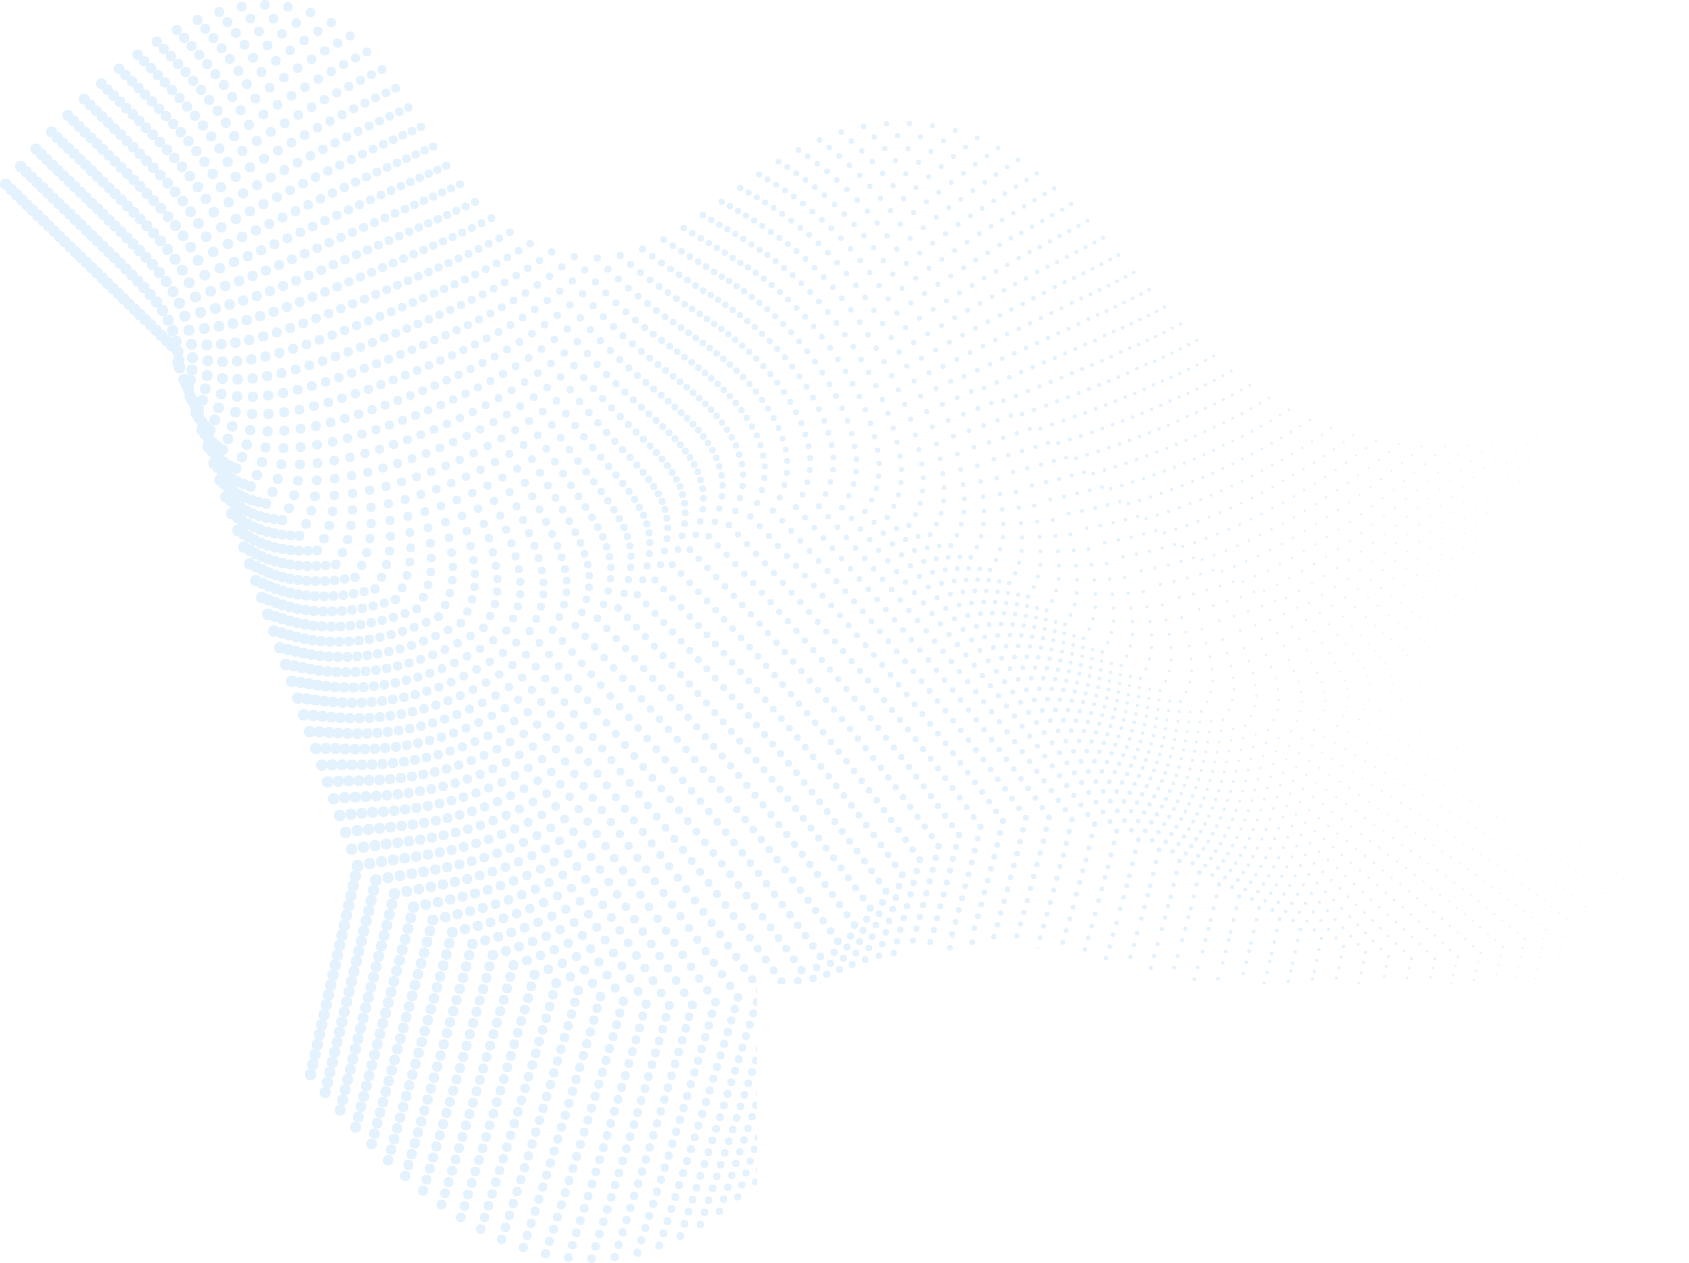
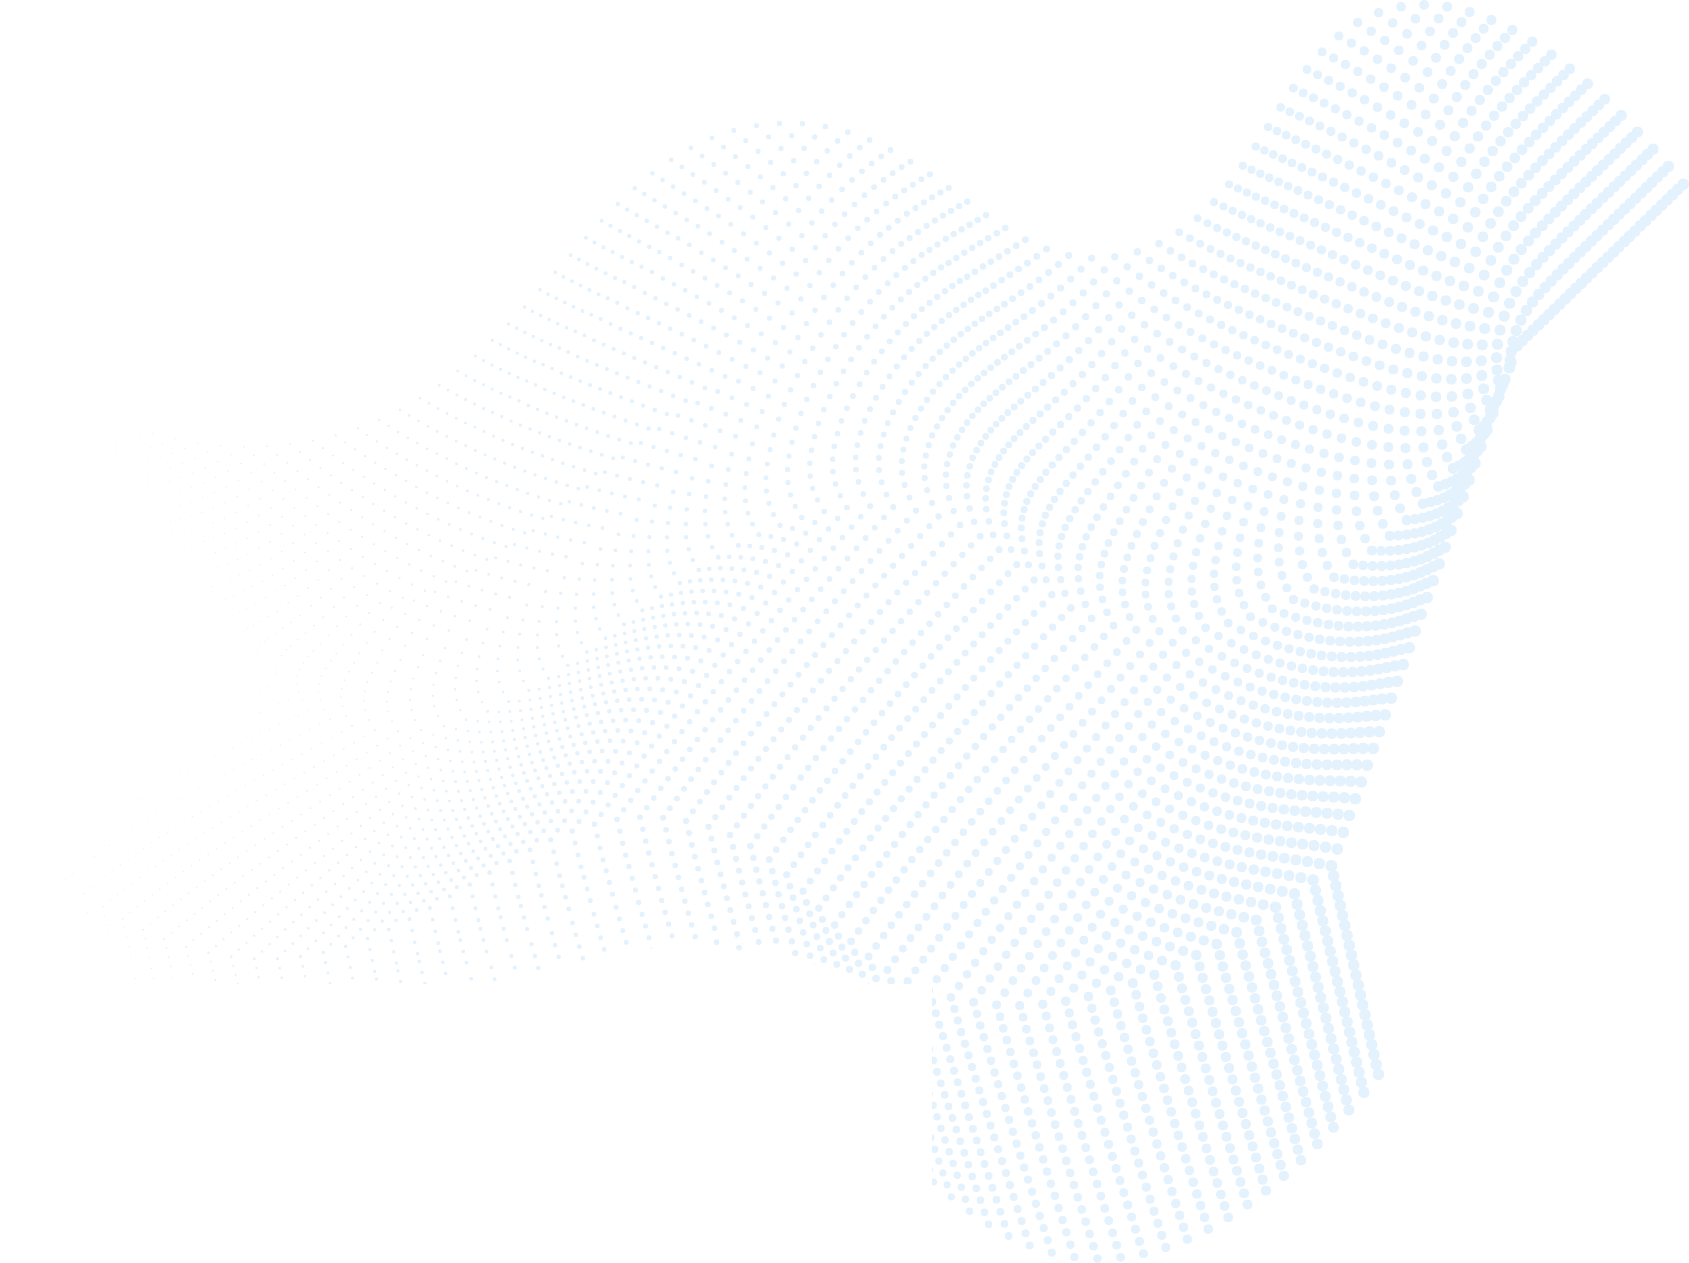
agregando loading lazy a las imagenes debajo del Hero

Changed region(s): [[0.0, 0.0, 1.0, 1.0]]

diff --git a/src/Frontend/layouts/Footer/Footer.tsx b/src/Frontend/layouts/Footer/Footer.tsx
@@ -22,6 +22,7 @@ function Footer() {
               alt="Logo de LockKey, un candado con una serpiente."
               width={200}
               height={200}
+              loading="lazy"
             />
             <h2 className="font-normal text-3xl">
               Lock<strong>Key</strong>
@@ -106,15 +107,7 @@ function Footer() {
           </a>
           .
         </p>
-        <a
-          className="text-3xl"
-          href="https://www.formfrom.design/illustration-pack/moneyfly"
-          target="_blank"
-          rel="noopener noreferrer"
-          title="Paleta de colores"
-        >
-          <FaPalette />
-        </a>
+        <span className="w-8"></span>
       </article>
     </footer>
   );

diff --git a/src/Frontend/pages/About/OurTeam/OurTeam.tsx b/src/Frontend/pages/About/OurTeam/OurTeam.tsx
@@ -49,6 +49,7 @@ const TeamCard: FC<TeamCardProps> = ({ img, name, occupation }) => {
             alt={`${name}, ${occupation}.`}
             width={472}
             height={440}
+            loading="lazy"
           />
         </figure>
         <div className="absolute bottom-0 left-1/2 transform -translate-x-1/2 translate-y-1/2">

diff --git a/src/Frontend/pages/Home/Hero/Hero.tsx b/src/Frontend/pages/Home/Hero/Hero.tsx
@@ -1,6 +1,6 @@
 import HeroBanner from "../../../../assets/hero-banner.png";
 import CircleImg from "../../../../assets/circle-background-img.png";
-import GradientImg from "../../../../assets/gradient-background-img2.png";
+import GradientImg from "../../../../assets/gradient-background-img.png";
 
 function Hero() {
   return (

diff --git a/src/Frontend/pages/Home/PricingPlans/PricingCard.tsx b/src/Frontend/pages/Home/PricingPlans/PricingCard.tsx
@@ -24,6 +24,7 @@ export const PricingCard: FC<PricingCardProps> = ({
           alt={`Imagen que representa el valor de el plan ${category} metaforicamente.`}
           width={390}
           height={390}
+          loading="lazy"
         />
       </figure>
       <div className="mb-4">

diff --git a/src/Frontend/pages/Home/Testimonials/Carousel.tsx b/src/Frontend/pages/Home/Testimonials/Carousel.tsx
@@ -40,6 +40,7 @@ export const Carousel: FC<CarouselProps> = ({ testimonials }) => {
                 alt={`Imagen de ${testimonial.name}`}
                 width={370}
                 height={370}
+                loading="lazy"
               />
             </figure>
             <div>

diff --git a/src/Frontend/pages/Home/WhatWeDo/WhatWeDo.tsx b/src/Frontend/pages/Home/WhatWeDo/WhatWeDo.tsx
@@ -14,6 +14,7 @@ function WhatWeDo() {
           alt="Icono de un mundo con líneas de conexión que salen de él."
           width={507}
           height={596}
+          loading="lazy"
         />
       </figure>
       <article className="text-center md:text-left lg:col-span-3">

diff --git a/src/Frontend/pages/Home/Features/FeaturedCard.tsx b/src/Frontend/pages/Home/Features/FeaturedCard.tsx
@@ -15,6 +15,7 @@ export const FeaturedCard: FC<FeatureCardProps> = ({
           alt={`Icono que alude a ${title}`}
           width={155}
           height={155}
+          loading="lazy"
         />
       </figure>
       <h3 className="text-2xl font-semibold mb-4">{title}</h3>

diff --git a/src/Frontend/pages/Home/WhoWeAre/WhoWeAre.tsx b/src/Frontend/pages/Home/WhoWeAre/WhoWeAre.tsx
@@ -33,6 +33,7 @@ function WhoWeAre() {
           alt="Un icono de una persona con gafas y sombrero, frente a una notebook."
           width={564}
           height={631}
+          loading="lazy"
         />
       </figure>
     </section>

diff --git a/src/Frontend/pages/Home/WhatWeDo/ShieldItem.tsx b/src/Frontend/pages/Home/WhatWeDo/ShieldItem.tsx
@@ -12,6 +12,7 @@ export const ShieldItem: FC<ShieldItemProps> = ({ title, text }) => {
           alt="Icono de un escudo"
           width={51}
           height={59}
+          loading="lazy"
         />
       </figure>
       <div>

diff --git a/src/Frontend/pages/Home/TalkBanner/TalkBanner.tsx b/src/Frontend/pages/Home/TalkBanner/TalkBanner.tsx
@@ -18,6 +18,7 @@ function TalkBanner() {
           alt="Fondo de imagen, puntos dispersos en líneas onduladas."
           width={1110}
           height={324}
+          loading="lazy"
         />
       </article>
     </section>

diff --git a/src/Frontend/pages/Home/Testimonials/Testimonials.tsx b/src/Frontend/pages/Home/Testimonials/Testimonials.tsx
@@ -20,6 +20,7 @@ function Testimonials() {
         alt="Signo de comillas"
         width={305}
         height={227}
+        loading="lazy"
       />
     </section>
   );
